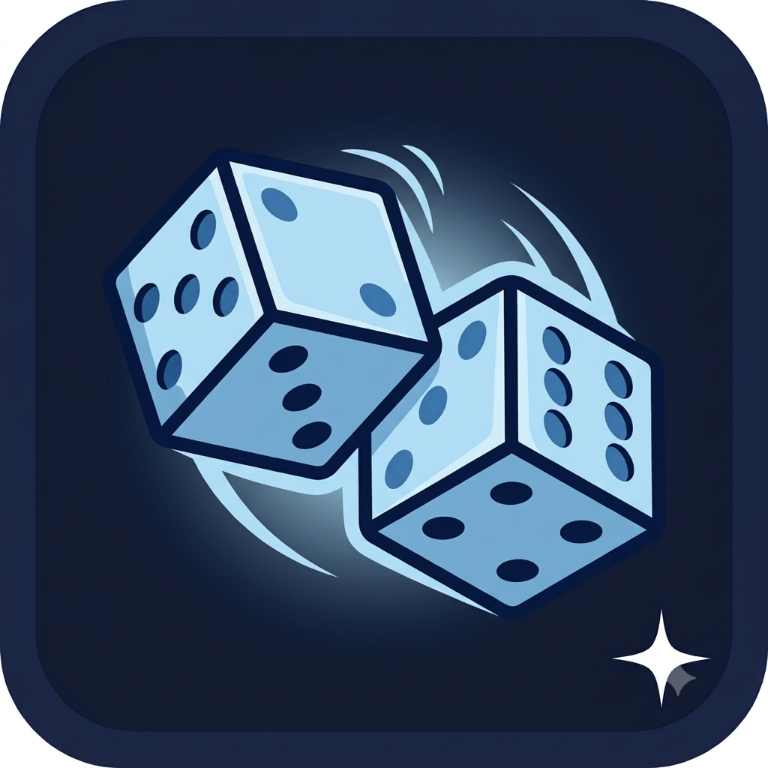
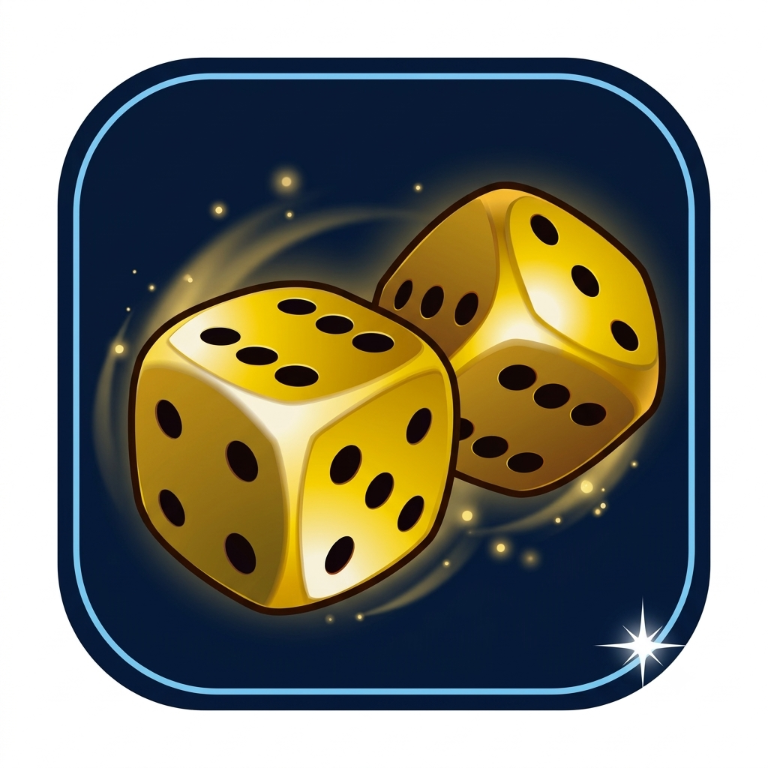
모아니면도 아이콘 수정

diff --git a/src/component/battleScreen/augment/AugmentIcon.js b/src/component/battleScreen/augment/AugmentIcon.js
@@ -1539,27 +1539,21 @@ export const AugmentIcon = ({ id, size = 42, pokemon = null, pokemonId = null, s
         {/* 모 아니면 도 */}
         {id === "allOrNothing" && (
           <g clipPath="url(#lwClip)">
-            <image href="/pokemon/img/augment/allOrNothing.png" x="1" y="1" width="62" height="62" preserveAspectRatio="xMidYMid slice" />
-            <circle cx="32" cy="32" r="29.5" fill="none" stroke="url(#prismRing)" strokeWidth="1.8" />
-            <circle cx="32" cy="32" r="28.2" fill="none" stroke="#60a5fa" strokeWidth="0.5" strokeOpacity="0.75" />
+            <image href="/pokemon/img/augment/allOrNothing.png" x="-5" y="-5" width="74" height="74" preserveAspectRatio="xMidYMid slice" />
           </g>
         )}
 
         {/* 인생은 한방 */}
         {id === "lifeIsOneShot" && (
           <g clipPath="url(#lwClip)">
-            <image href="/pokemon/img/augment/lifeIsOneShot.png" x="1" y="1" width="62" height="62" preserveAspectRatio="xMidYMid slice" />
-            <circle cx="32" cy="32" r="29.5" fill="none" stroke="url(#prismRing)" strokeWidth="1.8" />
-            <circle cx="32" cy="32" r="28.2" fill="none" stroke="#60a5fa" strokeWidth="0.5" strokeOpacity="0.75" />
+            <image href="/pokemon/img/augment/lifeIsOneShot.png" x="-5" y="-5" width="74" height="74" preserveAspectRatio="xMidYMid slice" />
           </g>
         )}
 
         {/* 특성 야바위 */}
         {id === "randomAbility" && (
           <g clipPath="url(#lwClip)">
-            <image href="/pokemon/img/augment/randomAbility.png" x="1" y="1" width="62" height="62" preserveAspectRatio="xMidYMid slice" />
-            <circle cx="32" cy="32" r="29.5" fill="none" stroke="url(#prismRing)" strokeWidth="1.8" />
-            <circle cx="32" cy="32" r="28.2" fill="none" stroke="#60a5fa" strokeWidth="0.5" strokeOpacity="0.75" />
+            <image href="/pokemon/img/augment/randomAbility.png" x="-5" y="-5" width="74" height="74" preserveAspectRatio="xMidYMid slice" />
           </g>
         )}
 

diff --git a/src/entity/Augment/AugmentData.js b/src/entity/Augment/AugmentData.js
@@ -2940,6 +2940,7 @@ export const AUGMENT_LIST = [
     },
     cost: 0,
     weight: 100,
+    isRandom: false,
     onApply: function (pokemon, battle, options) {
       const picked =
         options?.pickedAbility ||
@@ -3357,7 +3358,7 @@ export const AUGMENT_SYNERGY_MAP = {
   wujuStyle: ["lastManStanding", "lastSamurai", "lastWarrior"], // 우주류 검술: [라스트 맨 스탠딩, 라스트 사무라이, 최후의 전사]
   mejaisSoulstealer: ["rabadonsDeathcap", "voidStaff", "ludensEcho"], // 메자이의 영혼약탈자: [라바돈의 죽음모자, 공허의 지팡이, 루덴의 메아리]
   practiceMakesCritical: ["infinityEdge", "bladeOfTheRuinedKing", "collector"], // 연습이 치명타를 낳는다: [무한의 대검, 몰락한 왕의 검, 징수의 총]
-  gamblingAddict: ["lifeIsOneShot", "allOrNothing", "randomAbility"], // 도박 중독: [인생은 한방, 모 아니면 도, 특성 야바위]
+  gamblingAddict: ["lifeIsOneShot", "allOrNothing", "revolution", "swordEnhance", "zeroSumGame"], // 도박 중독
   giantAbsorption: ["thornmail", "warmogsArmor", "sunfireAegis", "spiritVisage", "sunfireCape"], // 거인의 흡수: [가시갑옷, 워모그의 갑옷, 태양불꽃방패, 정령의 형상, 태양불꽃망토]
   lostTechnologyCritical: ["specialSwordAndShield", "lostTechnologyBlizzard", "lostTechnologyPsychic", "lostTechnologyHyperBeam"], // 과거의 영광 (급소)
   symphonyFor100Metronomes: ["metronome", "doubleMetronome", "tripleMetronome"], // 100개의 메트로놈을 위한 교향시

diff --git a/src/test/augment/gamblingAddict.test.js b/src/test/augment/gamblingAddict.test.js
@@ -1,0 +1,20 @@
+import { rollAugments } from "../../calc/augmentRoll";
+import { AUGMENT_SYNERGY_MAP } from "../../entity/Augment/AugmentData";
+import { createBattle } from "../../entity/Battle";
+
+test("gambling addict synergy includes revolution, sword enhance, and zero-sum game", () => {
+  expect(AUGMENT_SYNERGY_MAP.gamblingAddict).toEqual([
+    "lifeIsOneShot",
+    "allOrNothing",
+    "revolution",
+    "swordEnhance",
+    "zeroSumGame",
+  ]);
+});
+
+test("random ability is not offered by random augment rolls", () => {
+  const battle = createBattle(["갸라도스", "팬텀", "럭키"], ["갸라도스", "팬텀", "럭키"]);
+  const choices = rollAugments(battle.player, 100, battle);
+
+  expect(choices.some(({ id }) => id === "randomAbility")).toBe(false);
+});
